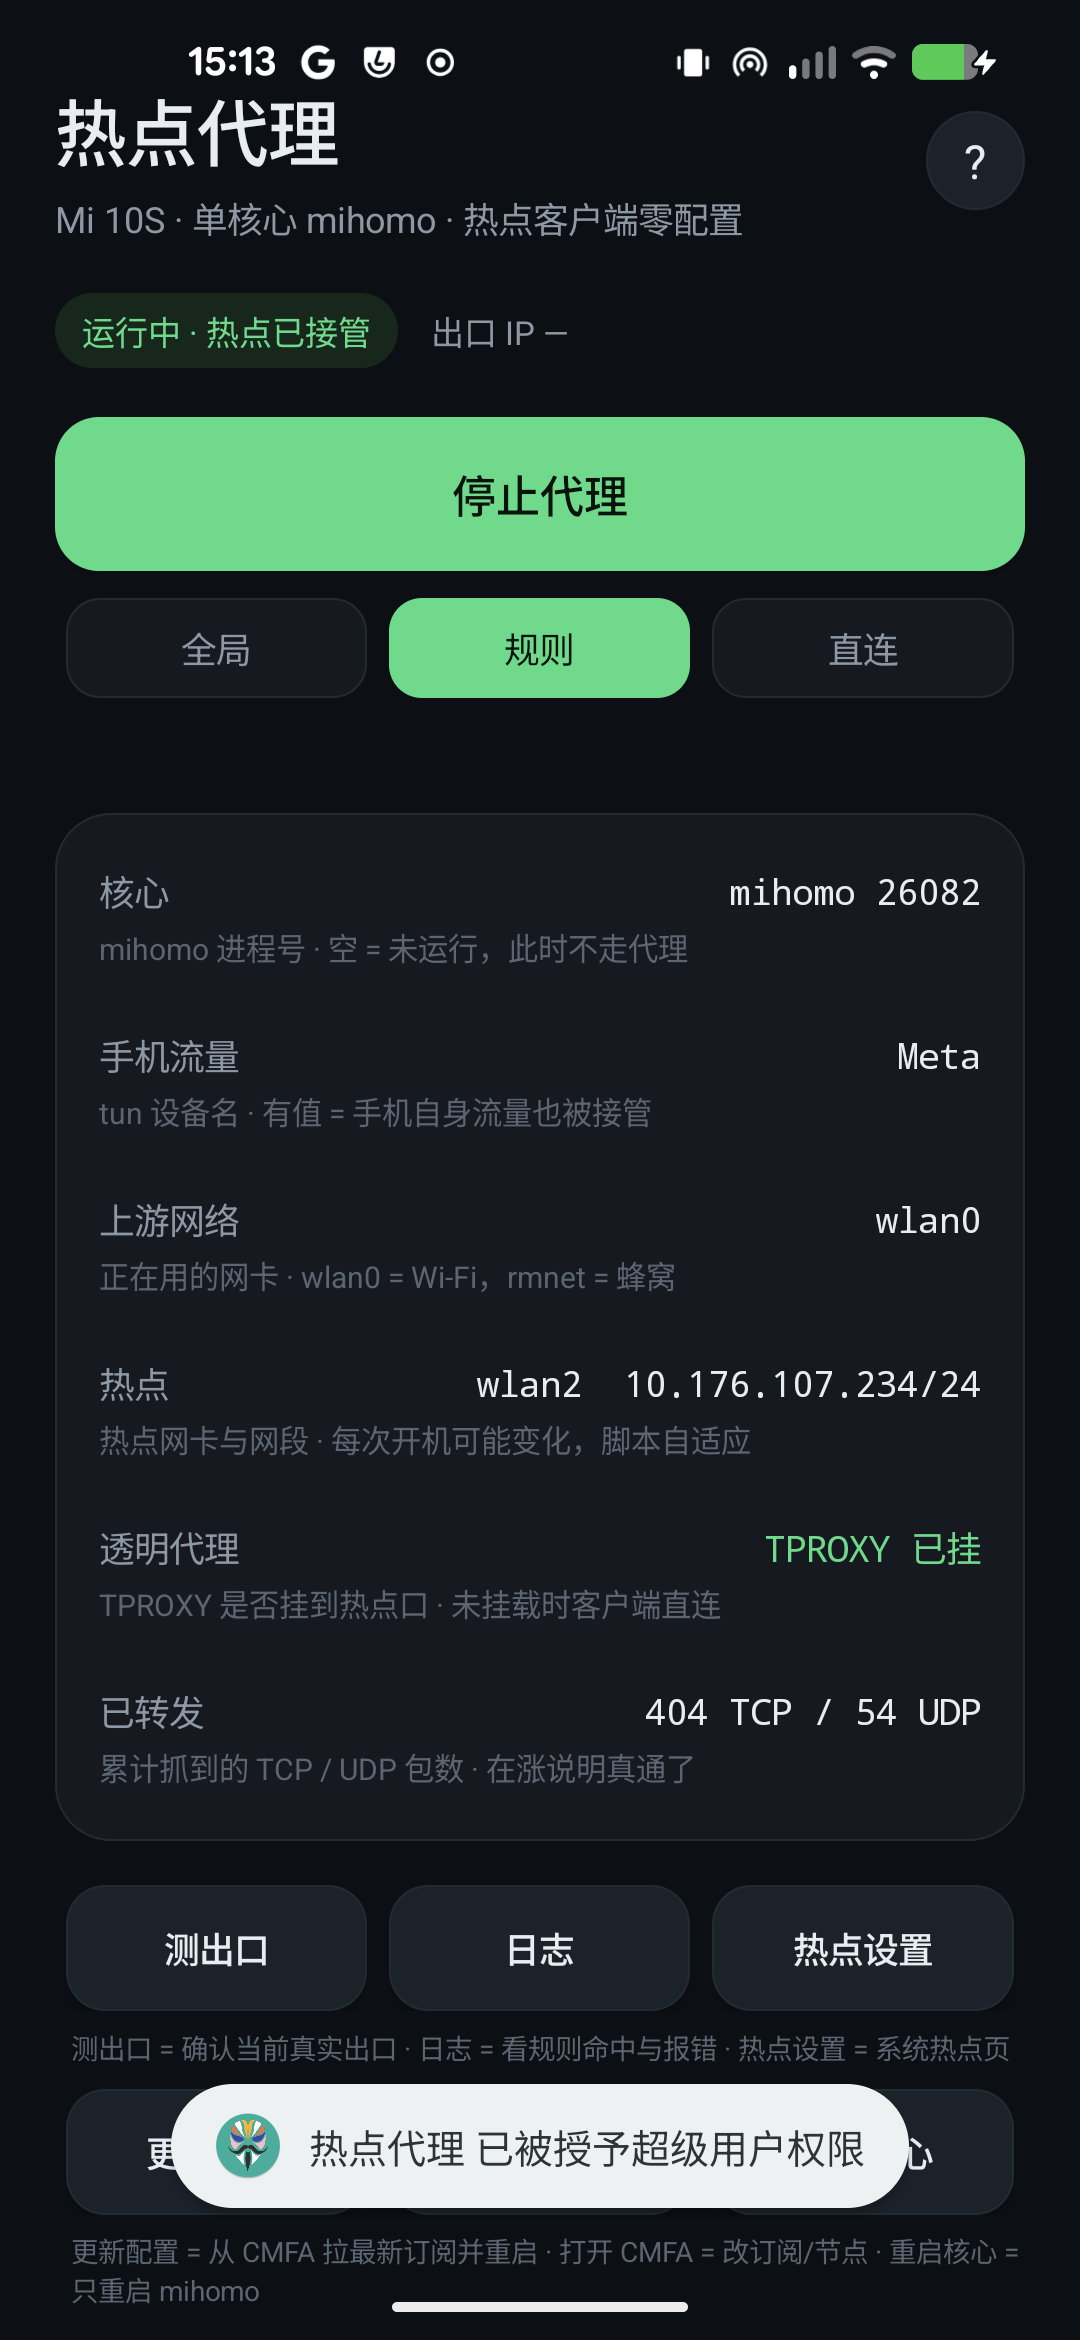
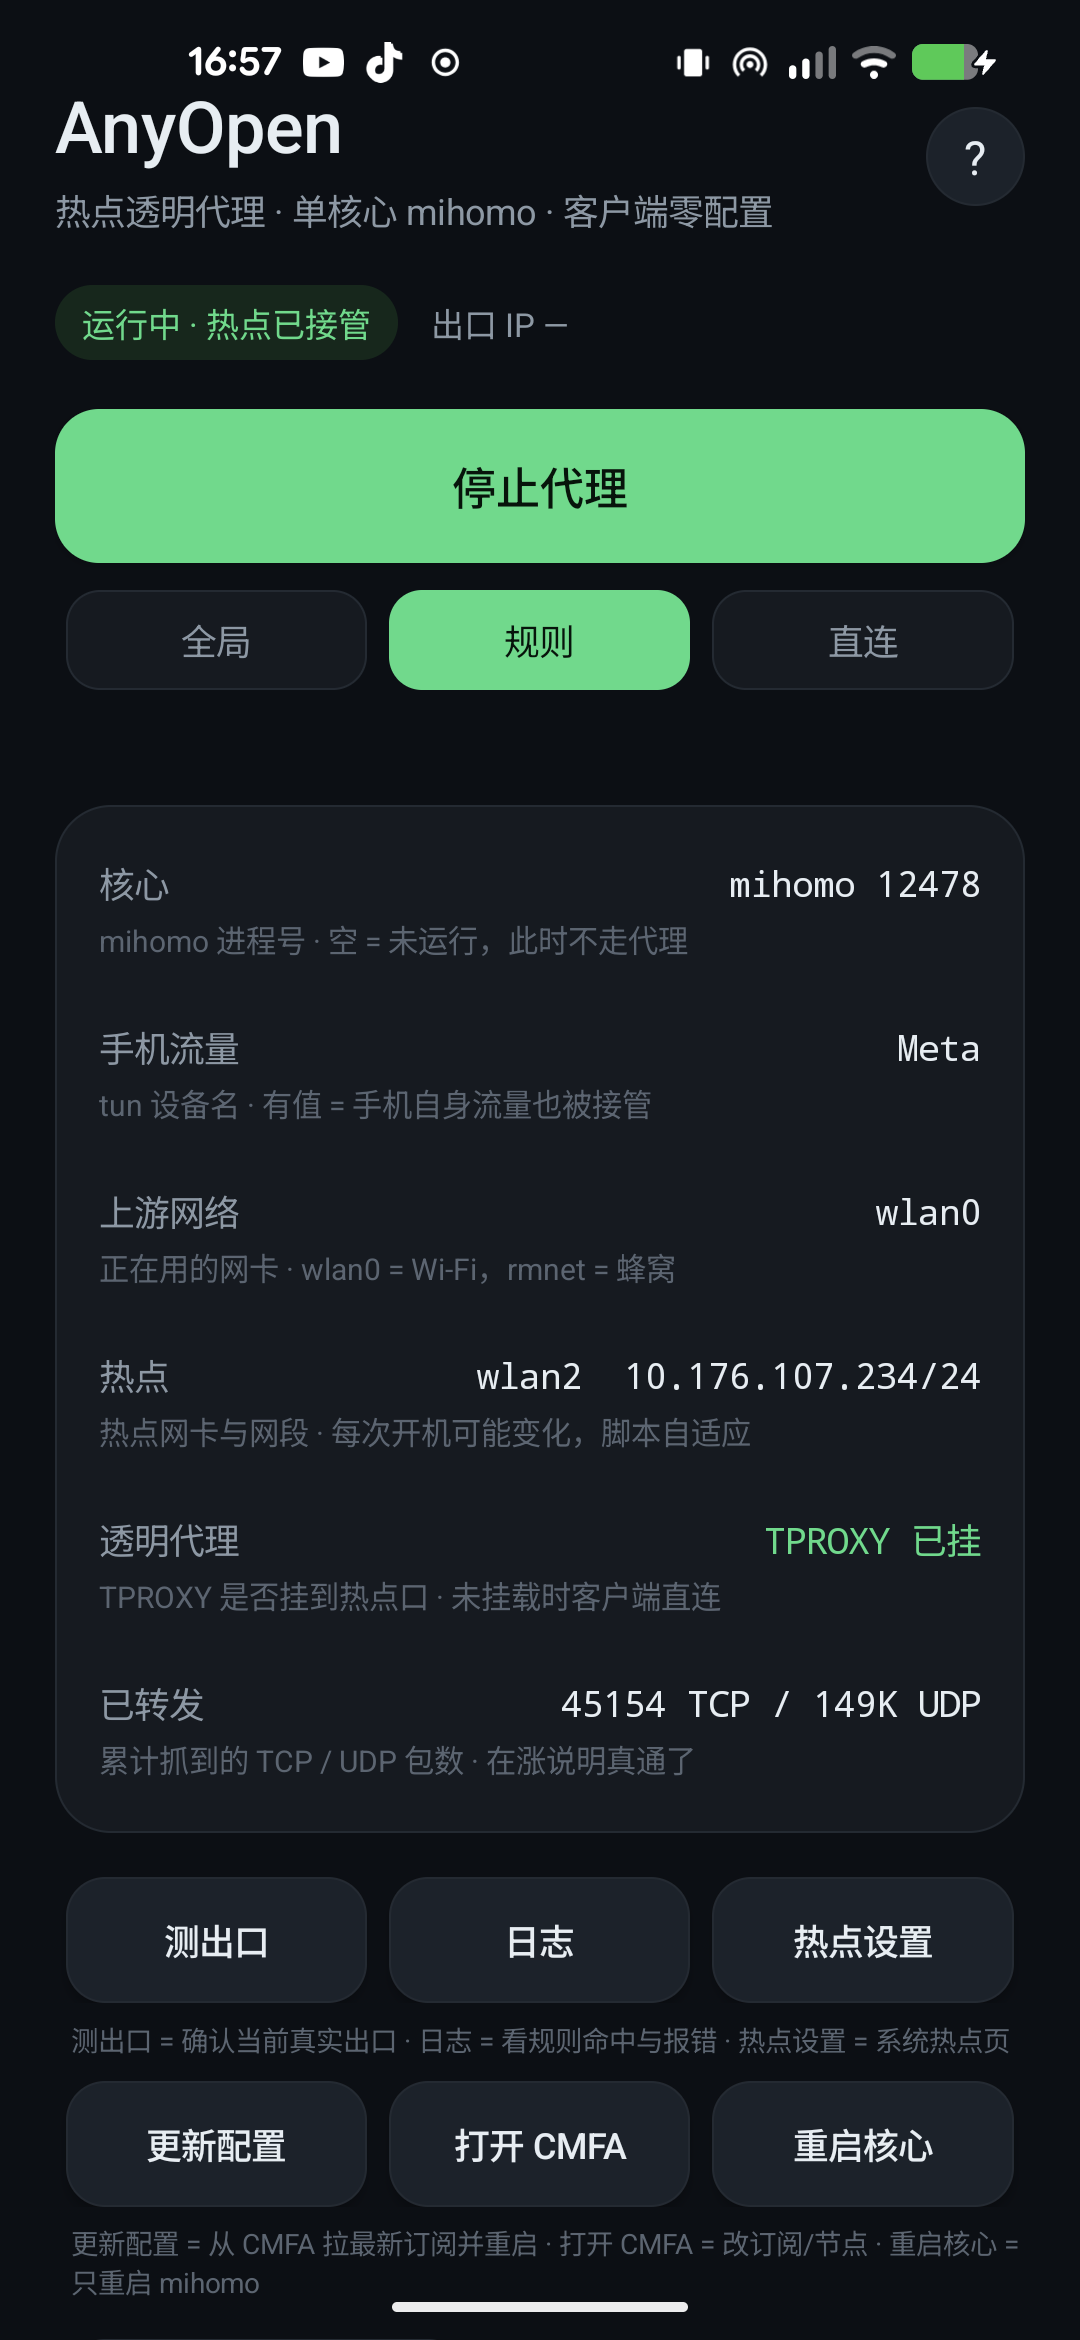
feat(app): 更名为 AnyOpen，新增自适应图标
- 包名 io.github.afeifun.anyopen，标题与文案统一为 AnyOpen
- 自适应图标（bg/fg/monochrome），支持 Android 13 主题图标
- build-app.sh 加 --no-daemon，规避残留 daemon 的文件锁
- README：构建状态/版本/协议徽章 + 图标；修正卸载包名

diff --git a/app/app/src/main/java/io/github/afeifun/anyopen/MainActivity.java b/app/app/src/main/java/io/github/afeifun/anyopen/MainActivity.java
@@ -1,4 +1,4 @@
-package dev.fly.hotspotctl;
+package io.github.afeifun.anyopen;
 
 import android.app.Activity;
 import android.app.AlertDialog;
@@ -132,14 +132,14 @@ public class MainActivity extends Activity {
         headText.setOrientation(LinearLayout.VERTICAL);
 
         TextView title = new TextView(this);
-        title.setText("热点代理");
+        title.setText("AnyOpen");
         title.setTextColor(TEXT);
         title.setTextSize(26);
         title.setTypeface(Typeface.create("sans-serif-medium", Typeface.NORMAL));
         headText.addView(title);
 
         TextView sub = new TextView(this);
-        sub.setText("Mi 10S · 单核心 mihomo · 热点客户端零配置");
+        sub.setText("热点透明代理 · 单核心 mihomo · 客户端零配置");
         sub.setTextColor(DIM);
         sub.setTextSize(13);
         sub.setPadding(0, dp(4), 0, 0);

diff --git a/app/app/src/main/java/io/github/afeifun/anyopen/PanelActivity.java b/app/app/src/main/java/io/github/afeifun/anyopen/PanelActivity.java
@@ -1,4 +1,4 @@
-package dev.fly.hotspotctl;
+package io.github.afeifun.anyopen;
 
 import android.app.Activity;
 import android.graphics.Color;

diff --git a/README.md b/README.md
@@ -1,5 +1,11 @@
 # AnyOpen
 
+[![checks](https://github.com/AfeiFun/AnyOpen/actions/workflows/checks.yml/badge.svg)](https://github.com/AfeiFun/AnyOpen/actions/workflows/checks.yml)
+[![release](https://img.shields.io/github/v/release/AfeiFun/AnyOpen)](https://github.com/AfeiFun/AnyOpen/releases)
+[![license](https://img.shields.io/github/license/AfeiFun/AnyOpen)](LICENSE)
+
+<img src="docs/screenshots/icon.png" width="88" align="right" />
+
 > 把一台 Root 过的安卓手机，变成**带透明代理的热点网关**：客户端连上热点就全局走代理，不需要在每台设备上装 App 或填代理。
 
 ![控制台](docs/screenshots/app.png)
@@ -64,6 +70,8 @@ adb install -r app/app/build/outputs/apk/debug/app-debug.apk
 
 ## 控制 App
 
+包名 `io.github.afeifun.anyopen`，纯 Java、零第三方依赖，APK 仅 ~30 KB。
+
 | 区域 | 说明 |
 |---|---|
 | 状态卡 | 核心 PID、tun 设备、上游网卡、热点网段、TPROXY 是否挂载、转发计数（3 秒刷新） |
@@ -127,7 +135,7 @@ docs/       架构说明与排错手册
 
 ```sh
 su -c 'sh /data/adb/hotspot/hs off; rm -rf /data/adb/hotspot /data/adb/service.d/99-hotspot-proxy.sh'
-adb uninstall dev.fly.hotspotctl
+adb uninstall io.github.afeifun.anyopen
 ```
 
 ## 协议

diff --git a/README.en.md b/README.en.md
@@ -1,5 +1,8 @@
 # AnyOpen
 
+[![checks](https://github.com/AfeiFun/AnyOpen/actions/workflows/checks.yml/badge.svg)](https://github.com/AfeiFun/AnyOpen/actions/workflows/checks.yml)
+[![release](https://img.shields.io/github/v/release/AfeiFun/AnyOpen)](https://github.com/AfeiFun/AnyOpen/releases)
+
 > Turn a rooted Android phone into a **hotspot gateway with transparent proxying**. Clients that join the hotspot go through your proxy automatically — no per-device app, no manual proxy settings.
 
 ![console](docs/screenshots/app.png)

diff --git a/docs/architecture.md b/docs/architecture.md
@@ -9,7 +9,7 @@
 | `hs` | `/data/adb/hotspot/hs` | 命令行：status / probe / on / off / restart / mode / regen / log / test |
 | `regen.sh` | `/data/adb/hotspot/regen.sh` | 从订阅生成配置（先 `mihomo -t` 校验再替换） |
 | `service.d` | `/data/adb/service.d/99-hotspot-proxy.sh` | 开机拉起 `run.sh` |
-| App | `dev.fly.hotspotctl` | 状态展示与控制，全部操作走 root shell |
+| App | `io.github.afeifun.anyopen` | 状态展示与控制，全部操作走 root shell |
 
 ## 端口
 

diff --git a/CHANGELOG.md b/CHANGELOG.md
@@ -1,5 +1,12 @@
 # Changelog
 
+## v1.7.0
+
+- App 更名 **AnyOpen**，包名改为 `io.github.afeifun.anyopen`（旧的 `dev.fly.hotspotctl` 需卸载重装）
+- 新增自适应图标：深色圆底 + 绿色信号弧，含 Android 13 主题图标与单色变体
+- 构建脚本改用 `--no-daemon`，避免残留守护进程占用文件锁
+- README 增加构建状态徽章与图标
+
 ## v1.6.0
 
 控制 App
